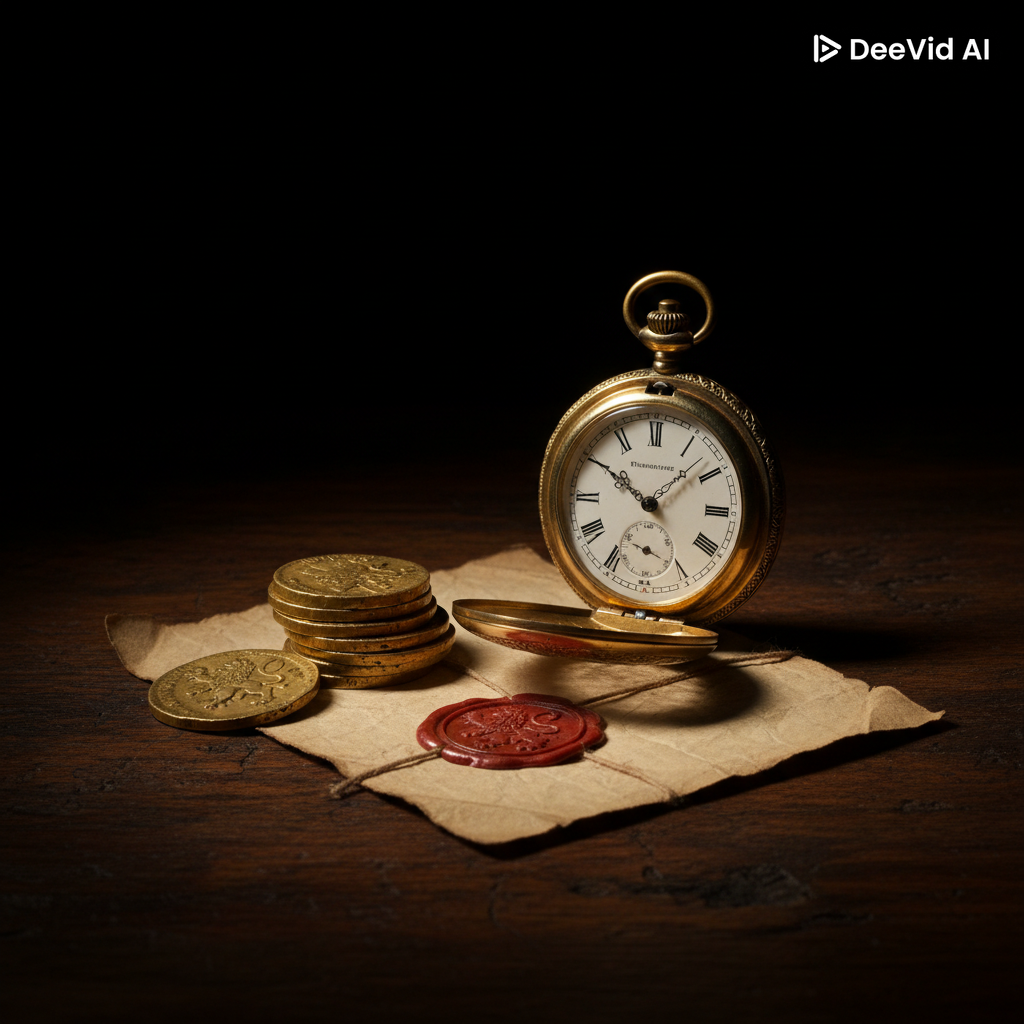
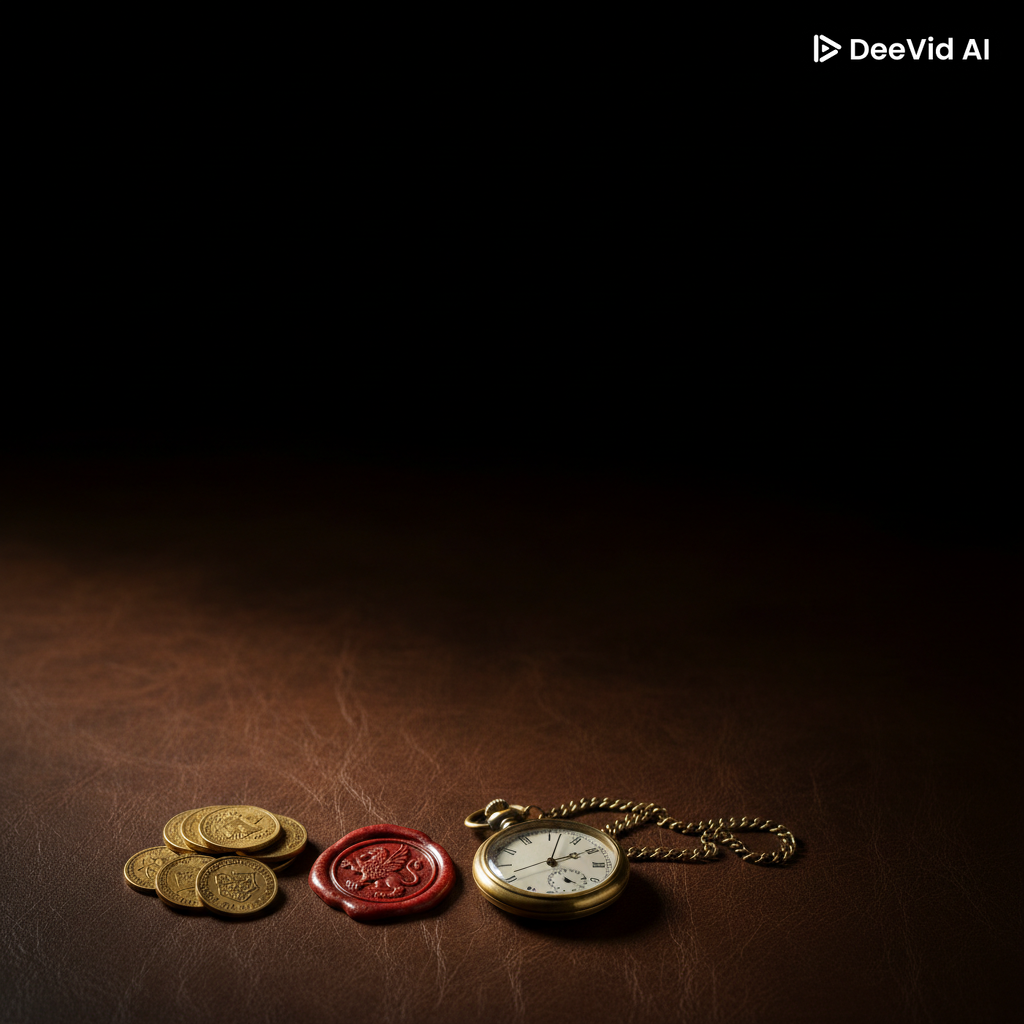
new

diff --git a/pages/index.js b/pages/index.js
@@ -28,20 +28,21 @@ export default function Home() {
           // HIER IST DER TRICK:
           // objectFit: 'cover' -> Füllt alles aus (keine Ränder)
           // objectPosition: '30% center' ->  Fokussiert etwas links von der Mitte (wo das Wappen ist)
-          style={{ objectFit: 'cover', objectPosition: '30% center' }} 
+          className={styles.bannerImage}
+          quality={100} 
           priority 
         />
         <div className={styles.heroContent}>
           {/* Wir nutzen motion für ein sanftes Einblenden des Textes */}
-          <motion.h2 
+          <motion.h3 
             initial={{ opacity: 0, x: 20 }}
             animate={{ opacity: 1, x: 0 }}
             transition={{ duration: 0.8, delay: 0.2 }}
             className={styles.goldShimmer} 
-            style={{ fontSize: '2.5rem', fontWeight: '600', margin: 0, lineHeight: 1.2 }} // Styling manuell sicherstellen, da h2 sonst kleiner wäre
+            style={{ fontSize: '2rem', fontWeight: '600', margin: 0, lineHeight: 1.2 }} // Styling manuell sicherstellen, da h2 sonst kleiner wäre
           >
-            WERTE WAHREN,<br />SCHÄTZE ERKENNEN
-          </motion.h2>
+            WERTE WAHREN, SCHÄTZE ERKENNEN
+          </motion.h3>
         </div>
       </div>
 

diff --git a/styles/Home.module.css b/styles/Home.module.css
@@ -9,7 +9,21 @@
   /* Zieht das Banner 100px nach oben, direkt unter den Header */
   margin-top: -100px; 
   /* Optional: Ein bisschen Padding oben, damit der Inhalt optisch wieder in die Mitte rutscht */
-  padding-top: 50px; 
+  padding-top: 50px;
+  background-color: #000; 
+}
+
+.bannerImage {
+  width: 100%;
+  height: 100%; /* Wichtig, damit es den Container ausfüllt */
+  
+  /* 1. Stellt sicher, dass das Bild den Bereich füllt, ohne verzerrt zu werden */
+  object-fit: cover; 
+
+  /* 2. DAS IST DER ENTSCHEIDENDE PUNKT: */
+  /* "bottom" zwingt die Unterkante des Bildes an die Unterkante des Containers. */
+  /* "center" zentriert es horizontal. */
+  object-position: bottom center; 
 }
 
 /* Der weiche Übergang am unteren Rand */
@@ -25,6 +39,17 @@
   z-index: 3; /* Muss über dem Bild und dem dunklen Overlay liegen */
   pointer-events: none;
 }
+/* Seitlicher Verlauf (Vignette), damit man keine harten Kanten sieht 
+.heroContent::before {
+  content: '';
+  position: absolute;
+  top: 10;
+  left: 0; 
+  width: 80%; 
+  height: 140%;
+  background: radial-gradient(circle, transparent 50%, #000 100%);
+  z-index: -1; 
+} */
 
 .heroContent {
   position: relative; 
